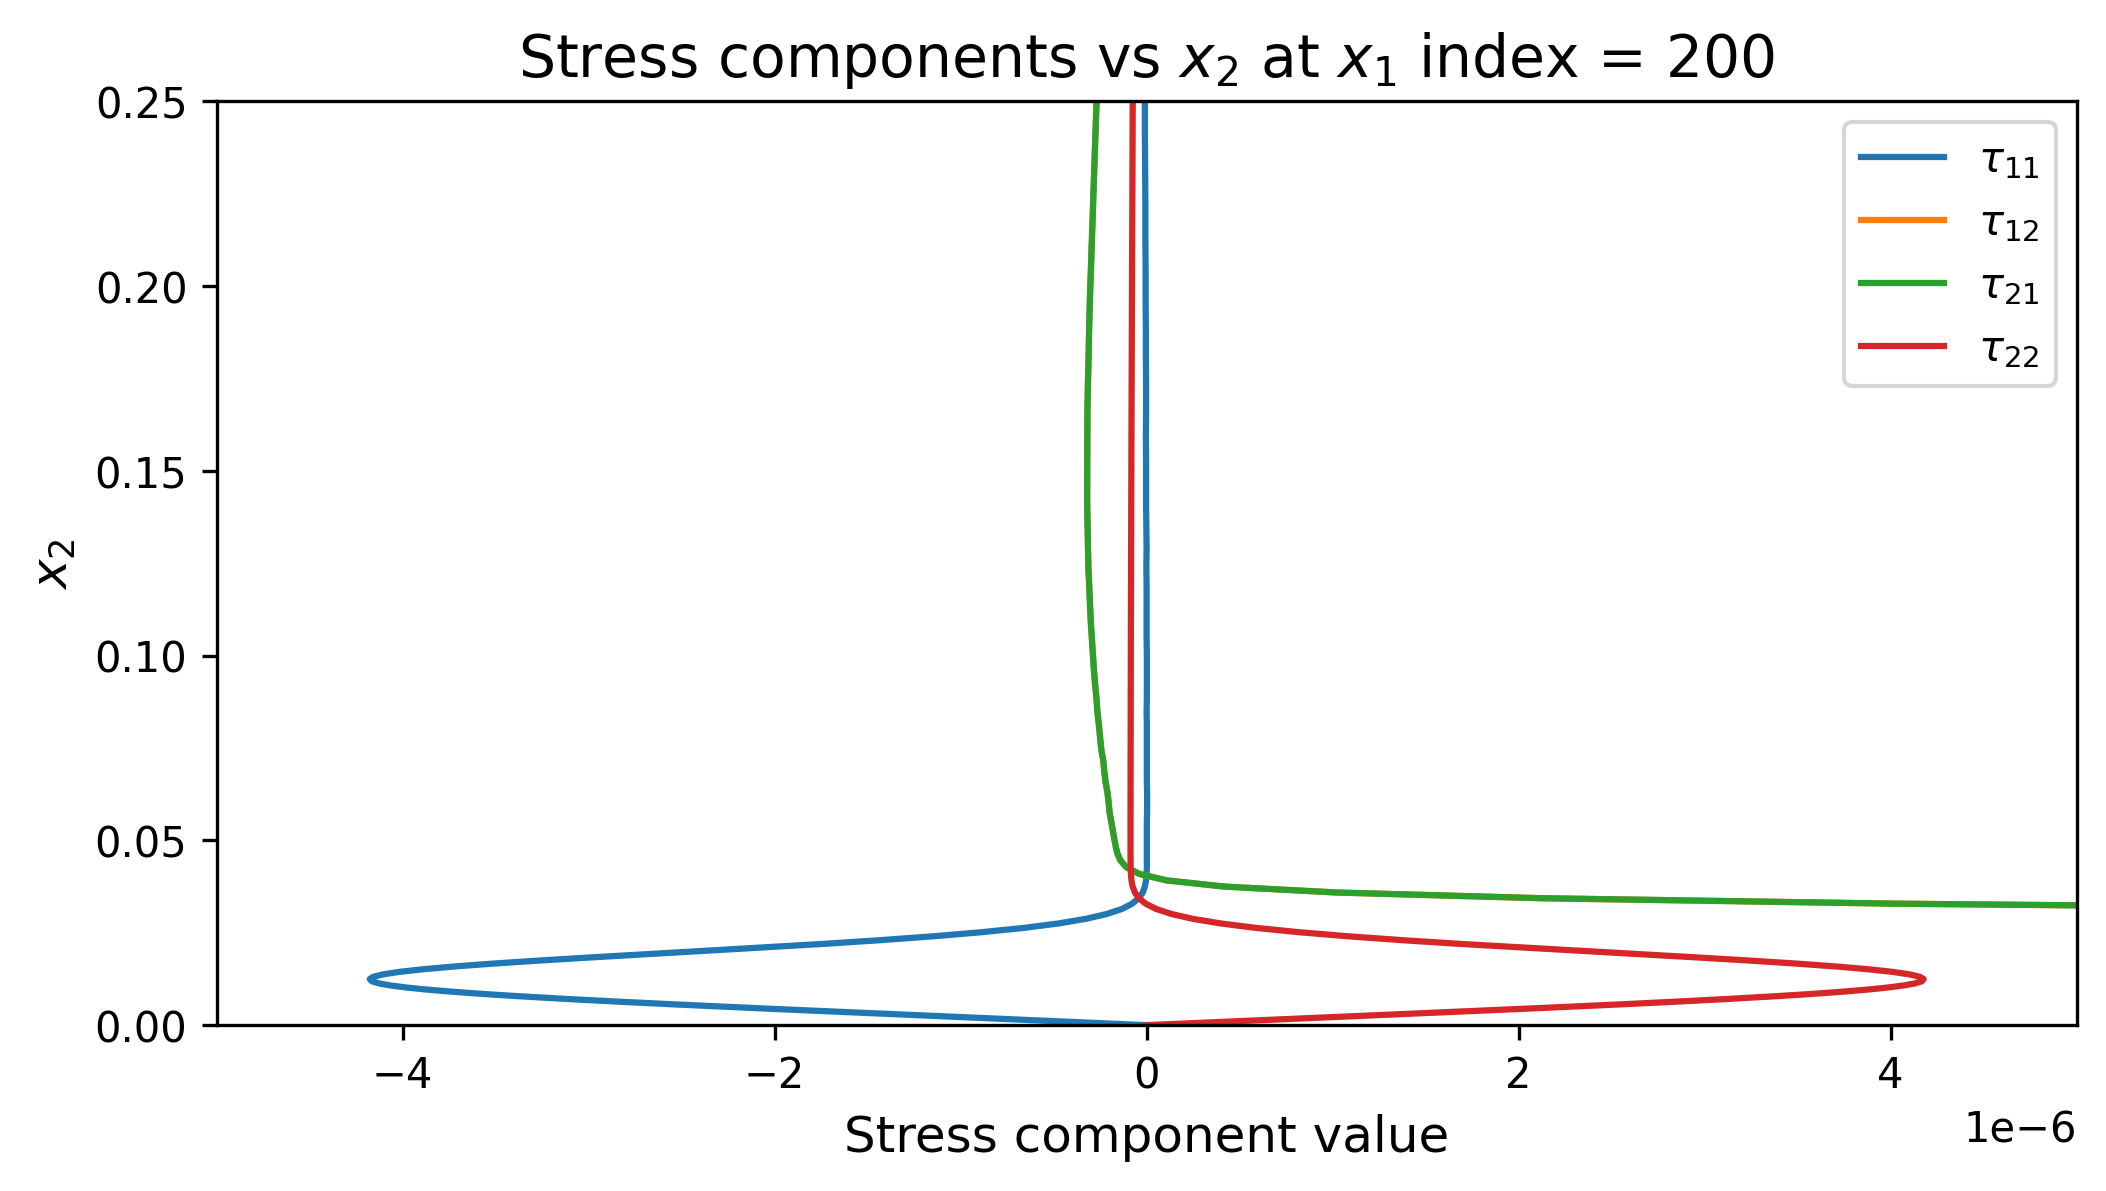
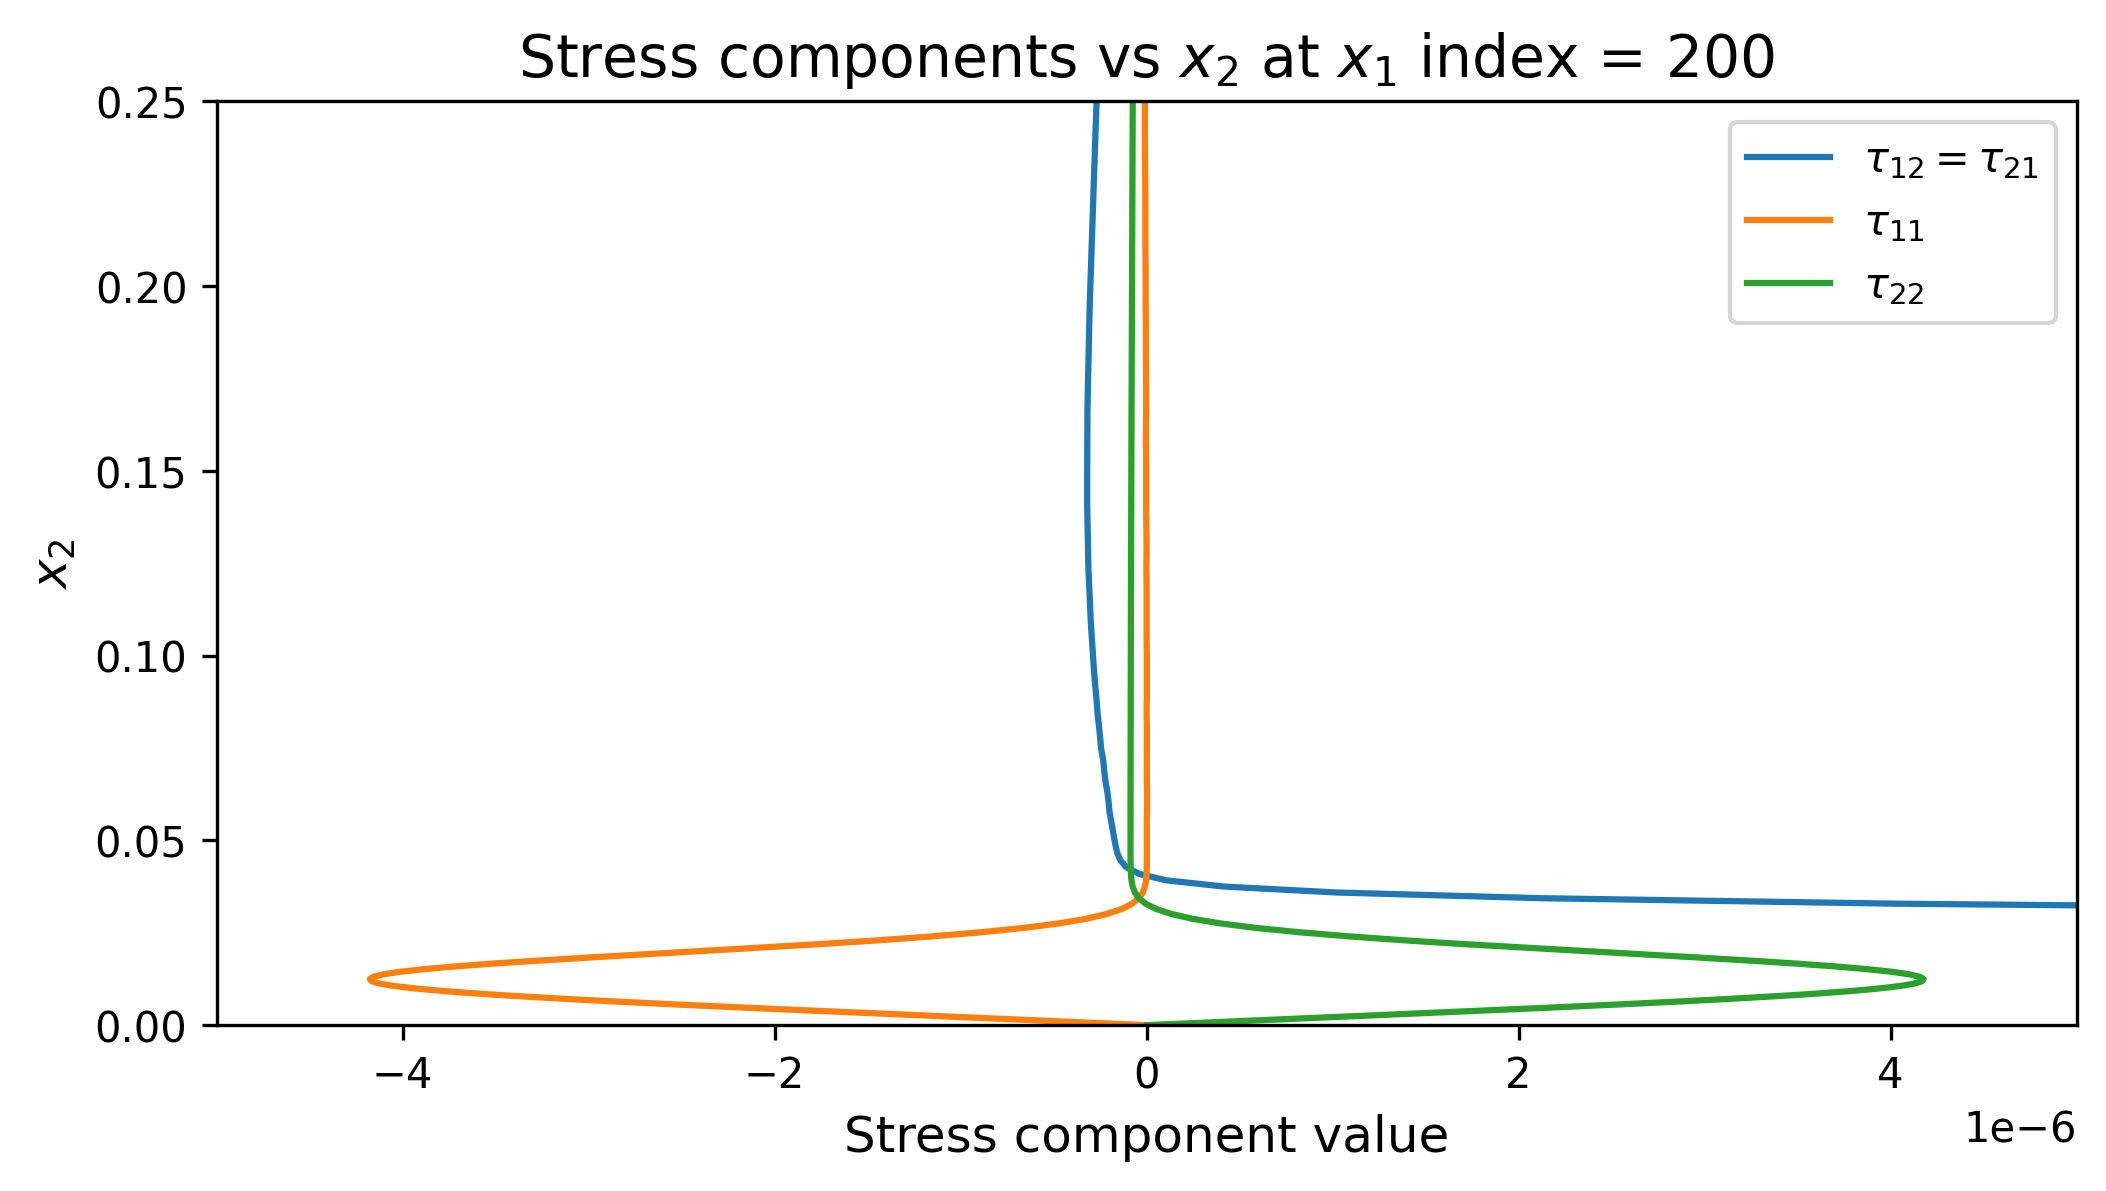
.

diff --git a/TME226/A1 (TME226) - Martin.py b/TME226/A1 (TME226) - Martin.py
@@ -856,9 +856,9 @@ plt.show()
 
 plt.figure()
 
+plt.plot(tau12_slice, yp, label=r"$\tau_{12} = \tau_{21}$")
 plt.plot(tau11_slice, yp, label=r"$\tau_{11}$")
-plt.plot(tau12_slice, yp, label=r"$\tau_{12}$")
-plt.plot(tau21_slice, yp, label=r"$\tau_{21}$")
+# plt.plot(tau21_slice, yp, label=r"$\tau_{21}$")
 plt.plot(tau22_slice, yp, label=r"$\tau_{22}$")
 
 plt.title(fr"Stress components vs $x_2$ at $x_1$ index = {i}")
@@ -870,6 +870,18 @@ plt.legend()
 plt.savefig('E8_2', dpi=dpi, bbox_inches='tight')
 plt.show()
 
+
+plt.figure()
+
+plt.plot(tau12_slice, yp, label=r"$\tau_{12} = \tau_{21}$")
+
+plt.title(fr"Stress components vs $x_2$ at $x_1$ index = {i}")
+plt.axis([-0.0001,0.001,0,0.1])
+plt.ylabel(fr"$x_2$")
+plt.xlabel("Stress component value")
+plt.legend()
+plt.savefig('E8_3', dpi=dpi, bbox_inches='tight')
+plt.show()
 
 
 print(eigvecs[1,4])
